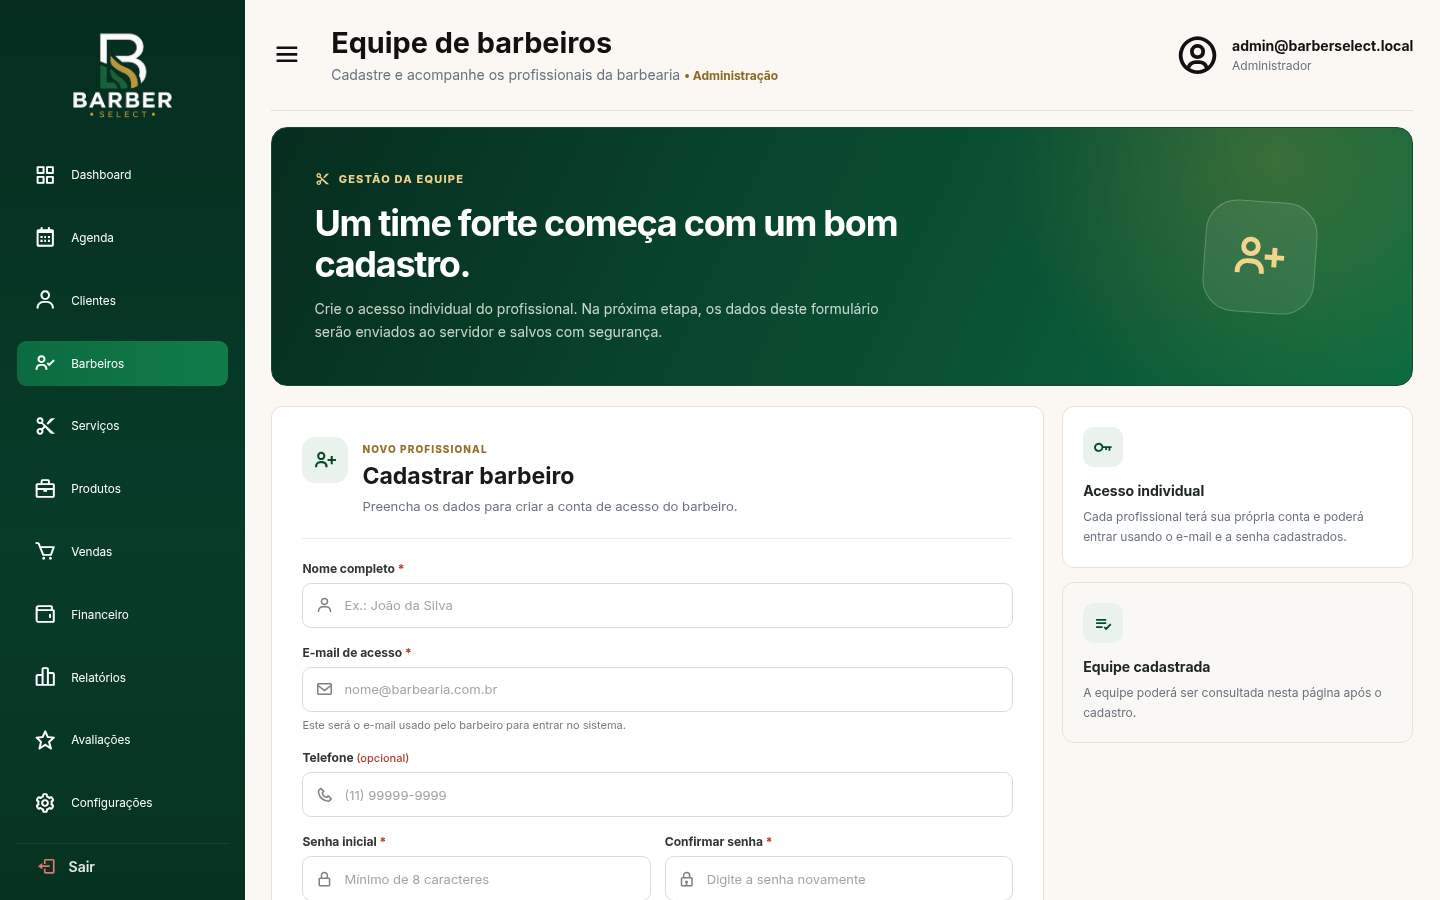
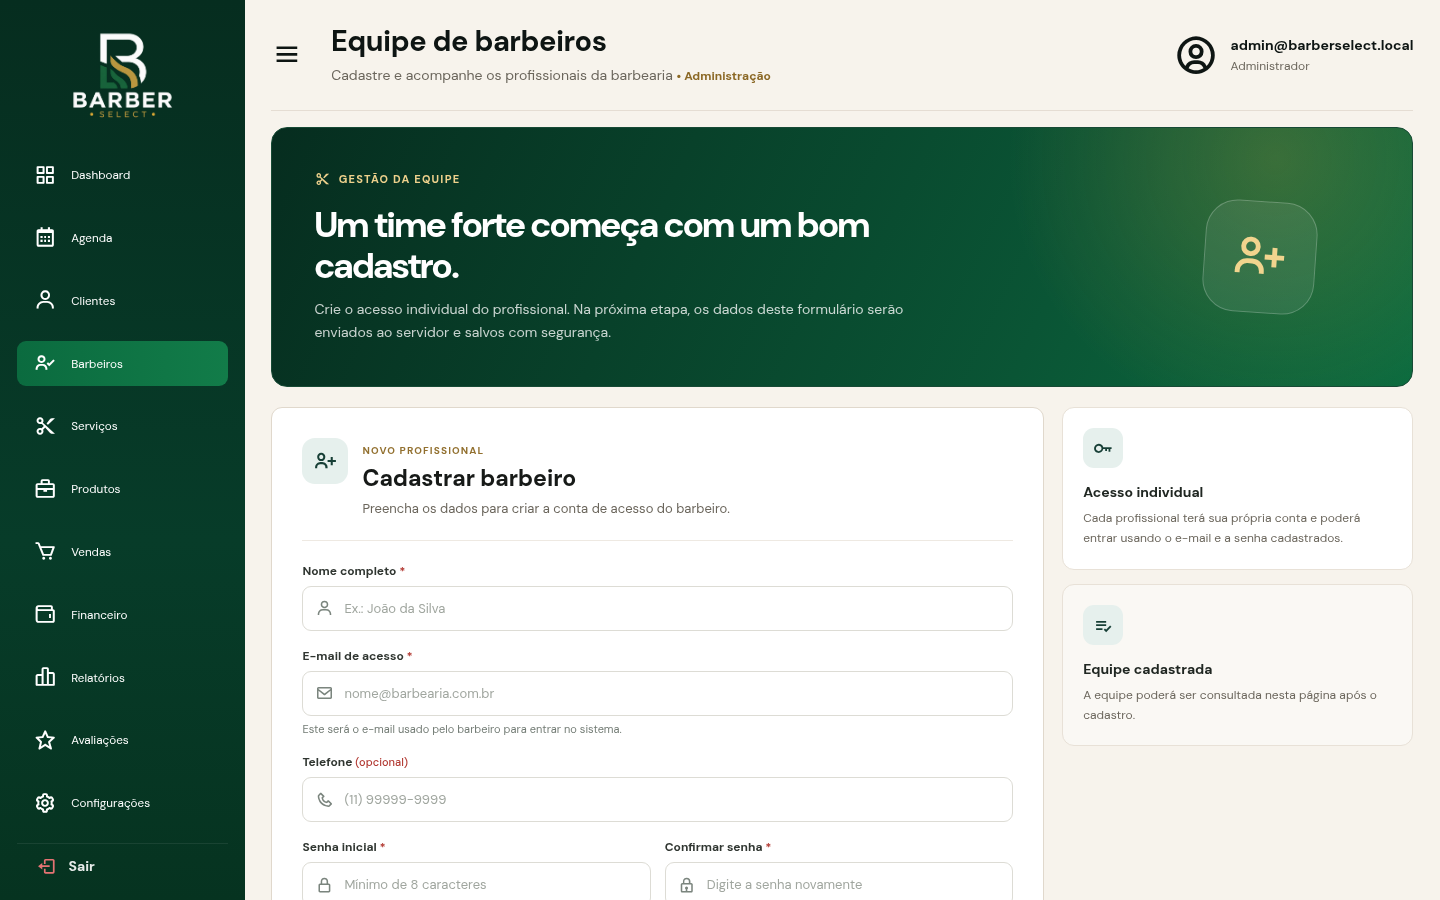
style: unifica fontes, cores e icones em todas as telas
- Adiciona Google Fonts e boxicons as paginas que faltavam
- Alinha tokens de cor entre styles.css, styles-legacy.css e as demais
- Preenche a sidebar das paginas appointments.html e settings.html
- auth.html: admin tambem pode entrar pela pagina de colaborador
- Atualiza as capturas de tela do README

diff --git a/public/staff/settings.html b/public/staff/settings.html
@@ -6,11 +6,31 @@
     <link rel="stylesheet" href="../styles-legacy.css" />
     <link rel="stylesheet" href="../styles-logout.css" />
     <title>Barber-Select | Configurações</title>
+      <link rel="preconnect" href="https://fonts.googleapis.com" />
+    <link rel="preconnect" href="https://fonts.gstatic.com" crossorigin />
+    <link href="https://fonts.googleapis.com/css2?family=DM+Sans:ital,opsz,wght@0,9..40,400;0,9..40,500;0,9..40,700;1,9..40,400&family=Playfair+Display:ital,wght@0,600;0,700;1,600&display=swap" rel="stylesheet" />
+      <link href="https://unpkg.com/boxicons@2.1.4/css/boxicons.min.css" rel="stylesheet" />
   </head>
   <body>
     <div class="app">
       <div class="shell">
-        <aside class="sidebar" id="sidebar"></aside>
+              <aside class="sidebar">
+        <div class="brand"><img src="../assets/LOGO.png" alt="Barber Select" /></div>
+        <div class="sidebar-nav">
+        <a class="nav-item" href="dashboard.html"><i class="bx bx-grid-alt"></i><span>Dashboard</span></a>
+        <a class="nav-item" href="agenda.html"><i class="bx bx-calendar"></i><span>Agenda</span></a>
+        <a class="nav-item" href="clients.html"><i class="bx bx-user"></i><span>Clientes</span></a>
+        <a class="nav-item" href="barbeiros.html"><i class="bx bx-user-plus"></i><span>Barbeiros</span></a>
+        <a class="nav-item" href="services.html"><i class="bx bx-cut"></i><span>Serviços</span></a>
+        <a class="nav-item" href="produtos.html"><i class="bx bx-package"></i><span>Produtos</span></a>
+        <a class="nav-item" href="venda.html"><i class="bx bx-cart"></i><span>Vendas</span></a>
+        <a class="nav-item" href="finance.html"><i class="bx bx-wallet"></i><span>Financeiro</span></a>
+        <a class="nav-item" href="relatorios.html"><i class="bx bx-bar-chart-alt-2"></i><span>Relatórios</span></a>
+        <a class="nav-item" href="avaliacoes.html"><i class="bx bx-star"></i><span>Avaliações</span></a>
+        <a class="nav-item active" href="configuracoes.html"><i class="bx bx-cog"></i><span>Configurações</span></a>
+        <button class="nav-item logout" type="button" id="logout-btn"><i class="bx bx-log-out"></i><span>Sair</span></button>
+        </div>
+      </aside>
         <div class="main">
           <header class="topbar">
             <h1 id="topbar-title">Configurações</h1>

diff --git a/public/staff/appointments.html b/public/staff/appointments.html
@@ -6,11 +6,31 @@
     <link rel="stylesheet" href="../styles-legacy.css" />
   <link rel="stylesheet" href="../styles-logout.css" />
     <title>Barber-Select | Agenda</title>
+      <link rel="preconnect" href="https://fonts.googleapis.com" />
+    <link rel="preconnect" href="https://fonts.gstatic.com" crossorigin />
+    <link href="https://fonts.googleapis.com/css2?family=DM+Sans:ital,opsz,wght@0,9..40,400;0,9..40,500;0,9..40,700;1,9..40,400&family=Playfair+Display:ital,wght@0,600;0,700;1,600&display=swap" rel="stylesheet" />
+      <link href="https://unpkg.com/boxicons@2.1.4/css/boxicons.min.css" rel="stylesheet" />
   </head>
   <body>
     <div class="app">
       <div class="shell">
-        <aside class="sidebar" id="sidebar"></aside>
+              <aside class="sidebar">
+        <div class="brand"><img src="../assets/LOGO.png" alt="Barber Select" /></div>
+        <div class="sidebar-nav">
+        <a class="nav-item" href="dashboard.html"><i class="bx bx-grid-alt"></i><span>Dashboard</span></a>
+        <a class="nav-item active" href="agenda.html"><i class="bx bx-calendar"></i><span>Agenda</span></a>
+        <a class="nav-item" href="clients.html"><i class="bx bx-user"></i><span>Clientes</span></a>
+        <a class="nav-item" href="barbeiros.html"><i class="bx bx-user-plus"></i><span>Barbeiros</span></a>
+        <a class="nav-item" href="services.html"><i class="bx bx-cut"></i><span>Serviços</span></a>
+        <a class="nav-item" href="produtos.html"><i class="bx bx-package"></i><span>Produtos</span></a>
+        <a class="nav-item" href="venda.html"><i class="bx bx-cart"></i><span>Vendas</span></a>
+        <a class="nav-item" href="finance.html"><i class="bx bx-wallet"></i><span>Financeiro</span></a>
+        <a class="nav-item" href="relatorios.html"><i class="bx bx-bar-chart-alt-2"></i><span>Relatórios</span></a>
+        <a class="nav-item" href="avaliacoes.html"><i class="bx bx-star"></i><span>Avaliações</span></a>
+        <a class="nav-item" href="configuracoes.html"><i class="bx bx-cog"></i><span>Configurações</span></a>
+        <button class="nav-item logout" type="button" id="logout-btn"><i class="bx bx-log-out"></i><span>Sair</span></button>
+        </div>
+      </aside>
         <div class="main">
           <header class="topbar">
             <h1 id="topbar-title">Agenda</h1>

diff --git a/public/styles.css b/public/styles.css
@@ -8,14 +8,24 @@
 
 :root {
   --sidebar-width: clamp(230px, 17vw, 286px);
-  --green: #064b2b;
-  --green-hover: #0f6b3f;
-  --green-soft: #e9f3ec;
-  --line: #e7e0d7;
-  --background: #fbf8f3;
-  --text: #111111;
-  --muted: #69727e;
-  --yellow: #c68a13;
+
+  /* Tokens alinhados aos da landing e das páginas de autenticação. */
+  --green: #173f36;
+  --green-hover: #1e5247;
+  --green-soft: #e6f0ed;
+  --line: #e0d8cc;
+  --background: #f7f3ec;
+  --text: #0e1513;
+  --muted: #6b665c;
+  --yellow: #c78e36;
+
+  /* Apelidos usados pelos outros arquivos de estilo. */
+  --ink: #0e1513;
+  --paper: #f7f3ec;
+  --panel: #fffdf8;
+  --gold: #c78e36;
+  --font: "DM Sans", system-ui, -apple-system, sans-serif;
+  --display: "Playfair Display", Georgia, serif;
 }
 
 html {
@@ -25,7 +35,7 @@ html {
 body {
   min-height: 100vh;
   overflow-x: hidden;
-  font-family: Inter, Arial, sans-serif;
+  font-family: var(--font);
   background: var(--background);
   color: var(--text);
 }
@@ -408,7 +418,7 @@ button {
 .dashboard-chart .chart-y-labels text,
 .dashboard-chart .chart-x-labels text {
   fill: #565656;
-  font-family: Inter, Arial, sans-serif;
+  font-family: var(--font);
   font-size: 12px;
 }
 

diff --git a/public/staff/novagendamento.html b/public/staff/novagendamento.html
@@ -7,7 +7,10 @@
   <link href="https://unpkg.com/boxicons@2.1.4/css/boxicons.min.css" rel="stylesheet">
   <link rel="stylesheet" href="../styles.css">
   <link rel="stylesheet" href="../styles-logout.css">
-</head>
+    <link rel="preconnect" href="https://fonts.googleapis.com" />
+    <link rel="preconnect" href="https://fonts.gstatic.com" crossorigin />
+    <link href="https://fonts.googleapis.com/css2?family=DM+Sans:ital,opsz,wght@0,9..40,400;0,9..40,500;0,9..40,700;1,9..40,400&family=Playfair+Display:ital,wght@0,600;0,700;1,600&display=swap" rel="stylesheet" />
+  </head>
 <body>
 
   <!-- Estrutura principal da aplicação -->

diff --git a/public/staff/novocliente.html b/public/staff/novocliente.html
@@ -7,7 +7,10 @@
   <link href="https://unpkg.com/boxicons@2.1.4/css/boxicons.min.css" rel="stylesheet">
   <link rel="stylesheet" href="../styles.css">
   <link rel="stylesheet" href="../styles-logout.css">
-</head>
+    <link rel="preconnect" href="https://fonts.googleapis.com" />
+    <link rel="preconnect" href="https://fonts.gstatic.com" crossorigin />
+    <link href="https://fonts.googleapis.com/css2?family=DM+Sans:ital,opsz,wght@0,9..40,400;0,9..40,500;0,9..40,700;1,9..40,400&family=Playfair+Display:ital,wght@0,600;0,700;1,600&display=swap" rel="stylesheet" />
+  </head>
 <body>
 
   <!-- Estrutura principal da aplicação -->

diff --git a/public/staff/avaliacoes.html b/public/staff/avaliacoes.html
@@ -7,7 +7,10 @@
   <link href="https://unpkg.com/boxicons@2.1.4/css/boxicons.min.css" rel="stylesheet">
   <link rel="stylesheet" href="../styles.css">
   <link rel="stylesheet" href="../styles-logout.css">
-</head>
+    <link rel="preconnect" href="https://fonts.googleapis.com" />
+    <link rel="preconnect" href="https://fonts.gstatic.com" crossorigin />
+    <link href="https://fonts.googleapis.com/css2?family=DM+Sans:ital,opsz,wght@0,9..40,400;0,9..40,500;0,9..40,700;1,9..40,400&family=Playfair+Display:ital,wght@0,600;0,700;1,600&display=swap" rel="stylesheet" />
+  </head>
 <body>
 
   <div class="app">

diff --git a/public/staff/relatorios.html b/public/staff/relatorios.html
@@ -7,7 +7,10 @@
   <link href="https://unpkg.com/boxicons@2.1.4/css/boxicons.min.css" rel="stylesheet">
   <link rel="stylesheet" href="../styles.css">
   <link rel="stylesheet" href="../styles-logout.css">
-</head>
+    <link rel="preconnect" href="https://fonts.googleapis.com" />
+    <link rel="preconnect" href="https://fonts.gstatic.com" crossorigin />
+    <link href="https://fonts.googleapis.com/css2?family=DM+Sans:ital,opsz,wght@0,9..40,400;0,9..40,500;0,9..40,700;1,9..40,400&family=Playfair+Display:ital,wght@0,600;0,700;1,600&display=swap" rel="stylesheet" />
+  </head>
 <body>
 
   <div class="app">

diff --git a/public/staff/services.html b/public/staff/services.html
@@ -9,7 +9,10 @@
   <link rel="stylesheet" href="../styles.css">
   <link rel="stylesheet" href="../styles-services.css">
   <link rel="stylesheet" href="../styles-logout.css">
-</head>
+    <link rel="preconnect" href="https://fonts.googleapis.com" />
+    <link rel="preconnect" href="https://fonts.gstatic.com" crossorigin />
+    <link href="https://fonts.googleapis.com/css2?family=DM+Sans:ital,opsz,wght@0,9..40,400;0,9..40,500;0,9..40,700;1,9..40,400&family=Playfair+Display:ital,wght@0,600;0,700;1,600&display=swap" rel="stylesheet" />
+  </head>
 <body>
   <div class="app">
     <aside class="sidebar">

diff --git a/public/staff/barbeiros.html b/public/staff/barbeiros.html
@@ -9,7 +9,10 @@
   <link rel="stylesheet" href="../styles.css">
   <link rel="stylesheet" href="../styles-barbers.css">
   <link rel="stylesheet" href="../styles-logout.css">
-</head>
+    <link rel="preconnect" href="https://fonts.googleapis.com" />
+    <link rel="preconnect" href="https://fonts.gstatic.com" crossorigin />
+    <link href="https://fonts.googleapis.com/css2?family=DM+Sans:ital,opsz,wght@0,9..40,400;0,9..40,500;0,9..40,700;1,9..40,400&family=Playfair+Display:ital,wght@0,600;0,700;1,600&display=swap" rel="stylesheet" />
+  </head>
 <body>
   <div class="app">
     <aside class="sidebar">

diff --git a/public/pages/auth.html b/public/pages/auth.html
@@ -7,6 +7,10 @@
     <link rel="stylesheet" href="../styles.css" />
 
     <title>Barber-Select | Entrar</title>
+      <link rel="preconnect" href="https://fonts.googleapis.com" />
+    <link rel="preconnect" href="https://fonts.gstatic.com" crossorigin />
+    <link href="https://fonts.googleapis.com/css2?family=DM+Sans:ital,opsz,wght@0,9..40,400;0,9..40,500;0,9..40,700;1,9..40,400&family=Playfair+Display:ital,wght@0,600;0,700;1,600&display=swap" rel="stylesheet" />
+    <link href="https://unpkg.com/boxicons@2.1.4/css/boxicons.min.css" rel="stylesheet" />
   </head>
   <body>
     <div class="app">

diff --git a/public/staff/configuracoes.html b/public/staff/configuracoes.html
@@ -10,6 +10,9 @@
     />
     <link rel="stylesheet" href="../styles.css" />
     <link rel="stylesheet" href="../styles-logout.css" />
+      <link rel="preconnect" href="https://fonts.googleapis.com" />
+    <link rel="preconnect" href="https://fonts.gstatic.com" crossorigin />
+    <link href="https://fonts.googleapis.com/css2?family=DM+Sans:ital,opsz,wght@0,9..40,400;0,9..40,500;0,9..40,700;1,9..40,400&family=Playfair+Display:ital,wght@0,600;0,700;1,600&display=swap" rel="stylesheet" />
   </head>
   <body>
     <div class="app">

diff --git a/public/js/auth/auth-manager.js b/public/js/auth/auth-manager.js
@@ -95,7 +95,13 @@
 
       const data = await response.json();
 
-      if (response.ok && data.role === profile) {
+      // Admin também é membro da equipe: a página de colaborador aceita os
+      // dois papéis. As demais páginas exigem o perfil exato.
+      const roleMatches = profile === "staff"
+        ? data.role === "staff" || data.role === "admin"
+        : data.role === profile;
+
+      if (response.ok && roleMatches) {
         return {
           success: true,
           accessToken: data.accessToken,
